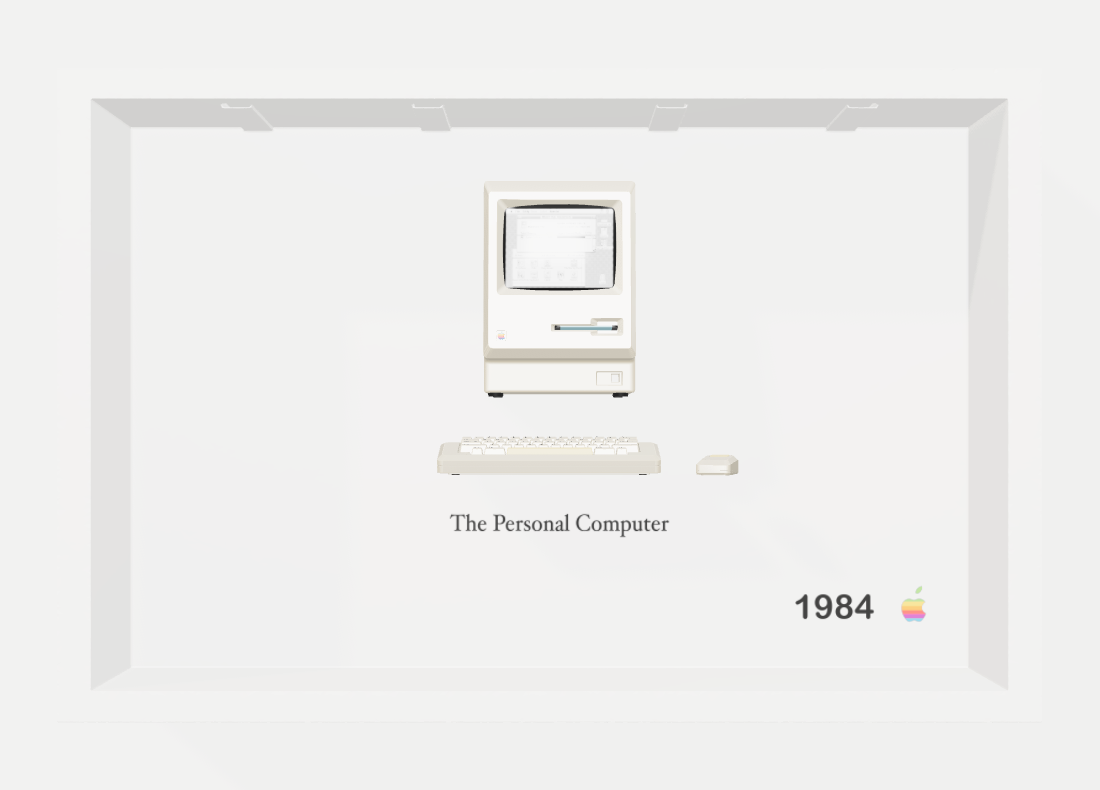
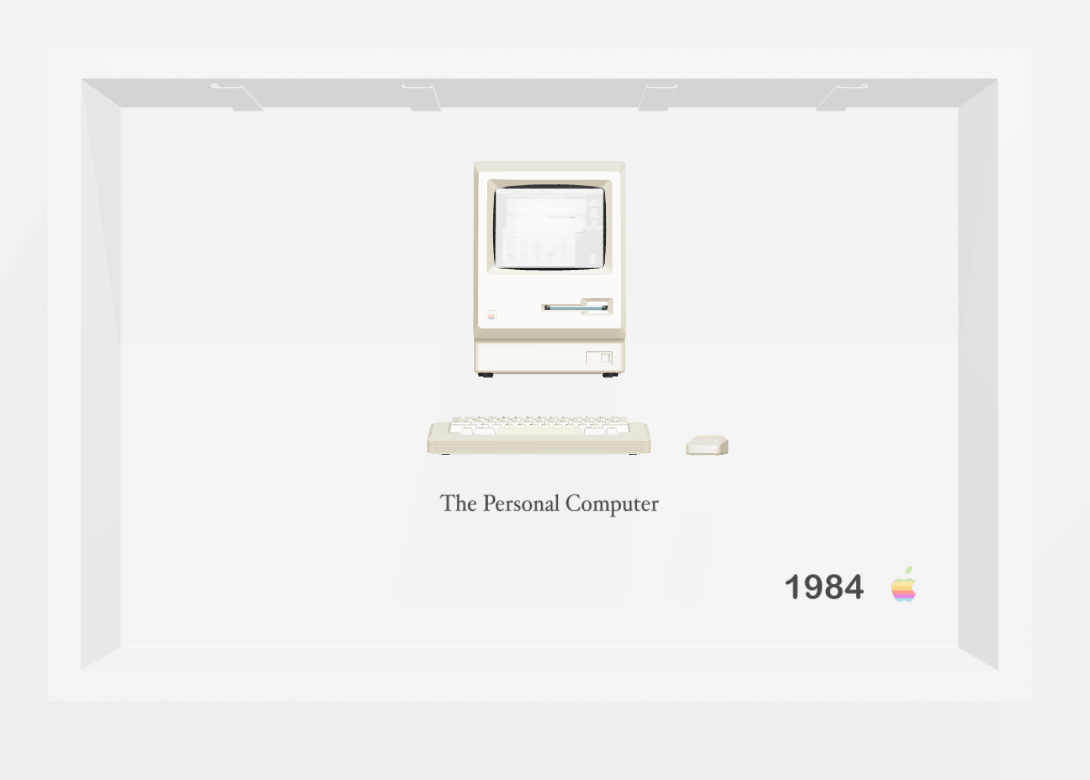
Gallery spotlight lighting for the wall scene
Replace the flat directional wash with a warm picture-light spot above
the piece: a focused pool with natural falloff into the wall corners,
a soft cast shadow off the frame, deeper interior shading, and richer
Macintosh beige. Store thumbnail re-shot from the new scene.

Changed region(s): [[0.3743, 0.2154, 0.6862, 0.6769], [0.0624, 0.0923, 0.9046, 0.1846], [0.7174, 0.7385, 0.8422, 0.8]]

diff --git a/src/components/room/WallScene3D.tsx b/src/components/room/WallScene3D.tsx
@@ -55,7 +55,7 @@ export default function WallScene3D({ light, art }: Props) {
     const renderer = new THREE.WebGLRenderer({ antialias: true });
     renderer.setPixelRatio(Math.min(window.devicePixelRatio, 2));
     renderer.toneMapping = THREE.ACESFilmicToneMapping;
-    renderer.toneMappingExposure = 0.92;
+    renderer.toneMappingExposure = 1.0;
     renderer.outputColorSpace = THREE.SRGBColorSpace;
     renderer.shadowMap.enabled = true;
     renderer.shadowMap.type = THREE.PCFSoftShadowMap;
@@ -73,27 +73,32 @@ export default function WallScene3D({ light, art }: Props) {
     // The wall — a physical white surface that receives real shadows
     const wall = new THREE.Mesh(
       new THREE.PlaneGeometry(40, 24),
-      new THREE.MeshStandardMaterial({ color: 0xf5f4f1, roughness: 0.96, metalness: 0, envMapIntensity: 0.1 })
+      new THREE.MeshStandardMaterial({ color: 0xedeae4, roughness: 0.97, metalness: 0, envMapIntensity: 0.04 })
     );
     wall.position.z = -0.012;
     wall.receiveShadow = true;
     scene.add(wall);
 
     // Lighting — ambient base always on; warm key builds during `light`
-    const hemi = new THREE.HemisphereLight(0xffffff, 0xd6d1c6, 0.5);
+    const hemi = new THREE.HemisphereLight(0xffffff, 0xb8b2a6, 0.42);
     scene.add(hemi);
-    const key = new THREE.DirectionalLight(0xffeed8, 0);
-    key.position.set(-3.5, 3.0, 3.2);
+    // Gallery picture light — a warm pool centered above the piece,
+    // falling off toward the corners of the wall
+    const key = new THREE.SpotLight(0xffefd9, 0);
+    key.position.set(0.7, 3.6, 3.0);
+    key.target.position.set(0, 0.5, 0);
+    scene.add(key.target);
+    key.angle = 0.55;
+    key.penumbra = 0.95;
+    key.decay = 1.3;
+    key.distance = 0;
     key.castShadow = true;
     key.shadow.mapSize.set(2048, 2048);
-    key.shadow.camera.left = -3;
-    key.shadow.camera.right = 3;
-    key.shadow.camera.top = 2.2;
-    key.shadow.camera.bottom = -2.2;
-    key.shadow.camera.near = 0.5;
-    key.shadow.camera.far = 12;
-    key.shadow.bias = -0.0004;
-    key.shadow.radius = 7;
+    key.shadow.camera.near = 1;
+    key.shadow.camera.far = 14;
+    key.shadow.bias = -0.0003;
+    key.shadow.normalBias = 0.02;
+    key.shadow.radius = 4;
     scene.add(key);
     const fill = new THREE.DirectionalLight(0xffffff, 0);
     fill.position.set(2.6, 1.2, 3.4);
@@ -145,9 +150,9 @@ export default function WallScene3D({ light, art }: Props) {
       if (lightStart !== null) {
         const p = clamp01((now - lightStart) / 1000 / LIGHT_DUR);
         const e = easeOut(p);
-        key.intensity = 1.6 * e;
-        fill.intensity = 0.3 * e;
-        key.position.x = -4.2 + 0.7 * e;
+        key.intensity = 19 * e;
+        fill.intensity = 0.12 * e;
+        key.position.x = -1.3 + 2.0 * e;
         if (p < 1) busy = true;
       }
 
@@ -186,10 +191,10 @@ export default function WallScene3D({ light, art }: Props) {
       if (disposed) return;
 
       const frameMat = new THREE.MeshStandardMaterial({
-        color: 0xf7f6f2,
-        roughness: 0.55,
+        color: 0xffffff,
+        roughness: 0.5,
         metalness: 0,
-        envMapIntensity: 0.35,
+        envMapIntensity: 0.2,
       });
       const glassMat = new THREE.MeshPhysicalMaterial({
         color: 0xffffff,
@@ -213,9 +218,9 @@ export default function WallScene3D({ light, art }: Props) {
           mesh.material = frameMat;
         } else if (/^beige 2$/i.test(mat.name)) {
           // the case plastic shipped colorless — classic Macintosh beige
-          mat.color.set(0xe6ddc8);
-          mat.roughness = 0.6;
-          mat.envMapIntensity = 0.3;
+          mat.color.set(0xdfd3b8);
+          mat.roughness = 0.55;
+          mat.envMapIntensity = 0.25;
         } else if (/glass/i.test(mat.name)) {
           mesh.material = glassMat;
           mesh.castShadow = false;
